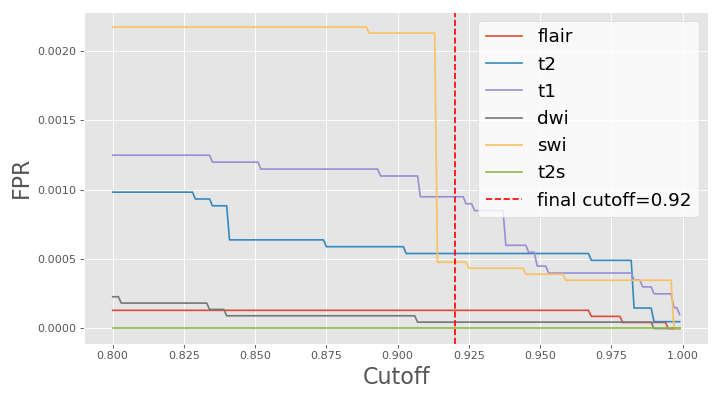
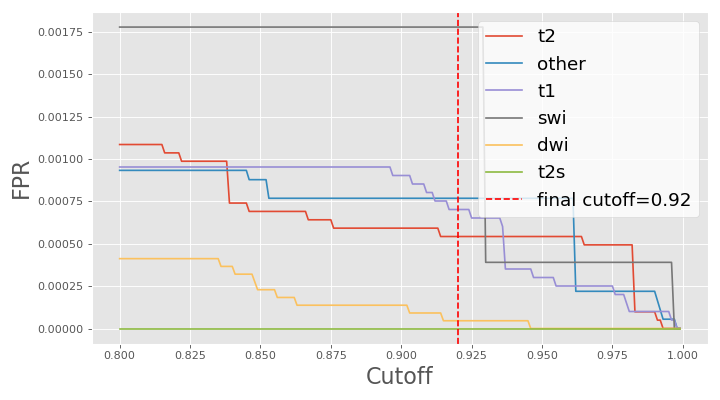
prediction stats

diff --git a/Cobra/cobra/predict_sequences.py b/Cobra/cobra/predict_sequences.py
@@ -14,10 +14,12 @@ from utilities import classification as clss
 from stats_tools import vis as svis
 import seaborn as sns
 import matplotlib.pyplot as plt
+import matplotlib as mpl
 import numpy as np
 from sklearn.model_selection import train_test_split
 from sklearn.metrics import confusion_matrix
-
+import seaborn as sns
+import scikitplot as skplot
 
 #%%
 # In[tables directories]
@@ -45,7 +47,7 @@ ICD_k = 'InstanceCreationDate'
 #%%
 # In[load all csv]
 rel_cols = [SID_k, SD_k, TE_k, TR_k, FA_k, TI_k,
-            ETL_k, SS_k, SV_k, PID_k, DT_k, ICD_k, ]
+            ETL_k, SS_k, SV_k, PID_k, DT_k, ICD_k,'Positive' ]
 table_all_dir = f"{table_dir}/neg_pos.csv"
 df_all = utils.load_scan_csv(table_all_dir)[rel_cols]
 print("Fraction of missing values for every column")
@@ -63,7 +65,9 @@ print(df_all[SS_k].astype(str).unique())
 print(df_all[SV_k].astype(str).unique())
 # In[Get masks for the different series descriptions]
 mask_dict, tag_dict = mri_stats.get_masks_dict(df_all)
-
+#%% 
+print(df_all.PatientID.nunique())
+#%%
 # In[Add sequence column and set it to one of the relevant values]
 sq = 'Sequence'
 rel_keys = ['t1', 't1gd', 't2', 't2gd', 't2s', 'swi', 'flair', 'none_nid',
@@ -76,18 +80,28 @@ df_all[sq] = np.where((mask_dict.t1gd), "t1", df_all[sq])
 df_all[sq] = np.where((mask_dict.t2gd), "t2", df_all[sq])
 df_all[sq] = np.where((mask_dict.gd), "none_nid", df_all[sq])
 print(df_all[sq])
+# %%
+print(df_all.Sequence.value_counts())
+print(df_all[df_all.Sequence=='dti'].PatientID.nunique())
 
+#print("There are not enough dti sequences")
+#%%
 # In[Count number of volumes for every sequence]
 seq_count = df_all[sq].value_counts()
 print(seq_count)
+#%%
+df_all.keys()
+#%%
+mpl.rcParams['figure.dpi'] = 400
+labels = ['Not \nidentified', 'other', 'T1', 'T2', 'DWI', 'FLAIR', 'SWI', 'T2*']
+g = sns.countplot(x="Sequence", hue="Positive", data=df_all, hue_order=[1,0],
+    order = df_all['Sequence'].value_counts().index)
+g.set(xlabel=('Sequence Type'), ylabel=('Volume Count'), xticklabels=labels)
+fig = g.get_figure()
+fig.tight_layout()
+fig.savefig(f"{fig_dir}/sequence_pred/volumes_sequence_count.png")
 
-# In[visualize number of volumes sequences]
-svis.bar(seq_count.keys(), seq_count.values, figsize=(13, 6),
-         kwargs={'xlabel':'Sequence', 'xtickparams_ls':16,
-              'title':'All Patients','ylabel':'Volume Count'}, 
-         save=True, figname=f"{fig_dir}/sequence_pred/volumes_sequence_count.png")
-
-
+#%%
 # In[Turn ScanningSequence into multi-hot encoded]
 s = df_all[SS_k].explode()
 columns_list = list(df_all.columns)
@@ -96,7 +110,7 @@ df_all = df_all[columns_list].join(pd.crosstab(s.index, s))
 print("Unique Scanning Sequences:")
 print(set(df_all.columns)-set(columns_list))
 del s
-
+#%%
 # In[Turn SequenceVariant into multi-hot encoded]
 s = df_all[SV_k].explode()
 columns_list = list(df_all.columns)
@@ -105,19 +119,22 @@ df_all = df_all[columns_list].join(pd.crosstab(s.index, s))
 print("Unique Sequence Variants:")
 print(set(df_all.columns)-set(columns_list))
 del s, columns_list
+#%%
 # In[Fraction of missing values in each column]
 print("Number of missing values")
 print(df_all.isna().sum(axis=0))
+#%%
 # In[Lets set missing inversion times, Flip Angles and Echo times to 0]
 df_all[TI_k] = np.where((df_all[TI_k].isna()), 0, df_all[TI_k])
 df_all[FA_k] = np.where((df_all[FA_k].isna()), 0, df_all[FA_k])
 df_all[TE_k] = np.where((df_all[TE_k].isna()), 0, df_all[TE_k])
+#%%
 # Lets set missing TR to the median TR
 df_all[TR_k] = np.where((df_all[TR_k].isna()), df_all[TR_k].median(), df_all[TR_k])
 df_all[ETL_k] = np.where((df_all[ETL_k].isna()), 0, df_all[ETL_k])
 print("Missing values:")
 print(df_all.isna().sum(axis=0))
-
+#%%
 # In[Now we can show the histograms, except non numeric values]
 columns_list = list(df_all.columns)
 sparse_columns = ['EP', 'GR', 'IR', 'RM', 'SE', 'DE', 'MP', 'MTC',
@@ -130,21 +147,24 @@ fig, ax = plt.subplots(figsize=(10, 10))
 ax = df_all.hist(column=columns_list, figsize=(10, 10), ax=ax, log=True)
 fig.tight_layout()
 fig.savefig(f"{fig_dir}/sequence_pred/X_distr.png")
+#%%
 # In[Show the binary columns]
 bin_counts = df_all[sparse_columns].sum(axis=0)
 svis.bar(bin_counts.keys(), bin_counts.values,
               figsize=(15, 6), kwargs={'logscale':True},
               figname=f"{fig_dir}/sequence_pred/X_distr_bin.png")
+#%%
 # In[We can drop the TOF, EP, DE and MTC columns]
 try:
     df_all = df_all.drop(['TOF', 'DE', 'MTC'], axis=1)
 except:
     print("those columns are not present")
+#%%
 # In[Before encoding we have to split up the sequences we want to predict (test set)]
 df_test = df_all[df_all.Sequence == 'none_nid']
 df_train = df_all[df_all.Sequence != 'none_nid']
 del df_all
-
+#%%
 # In[Integer encode labels]
 target_labels = df_train.Sequence.unique()
 target_ids = np.arange(len(target_labels))
@@ -153,7 +173,7 @@ y = df_train[sq].map(target_dict)
 print(y)
 print(target_dict)
 
-
+#%%
 # In[Now we separate the patient ID and the SeriesInstance UID]
 # From now on we should not change the order or remove any values,
 # otherwise the ids wont match afterwards
@@ -167,7 +187,7 @@ try:
         [PID_k, SID_k, 'Sequence', SD_k, DT_k, ICD_k], axis=1)
 except:
     print("those columns are not present")
-
+#%%
 # In[Min max scale non bin columns]
 num_cols = df_train.select_dtypes(include="float64").columns
 X = df_train.copy()
@@ -177,26 +197,30 @@ for col in num_cols:
         (df_train[col].max()-df_train[col].min())
     X_test[col] = (df_test[col] - df_test[col].min()) / \
         (df_test[col].max()-df_test[col].min())
-
+#%%
 # In[Split train and val]
 X_train, X_val, y_train, y_val = train_test_split(
     X, y, test_size=0.1, random_state=42)
 
-
+#%%
 # In[Initialize and train]
 xgb_cl = xgb.XGBClassifier()
 xgb_cl.fit(X_train, y_train)
+#%%
 # In[Plot feature importance]
 xgb.plot_importance(xgb_cl, importance_type = 'gain') # other options available
 plt.show()
+#%%
 # In[Predict]
 pred_prob_val = xgb_cl.predict_proba(X_val)
+#%%
 # In[Plot roc curve]
 svis.plot_decorator(skplot.metrics.plot_roc_curve, 
                     plot_func_args=[y_val, pred_prob_val, ],
                     plot_func_kwargs={'figsize': (9, 8), 'text_fontsize': 14.5,
                             'title': "Sequence Prediction - ROC Curves"},
                     figname=f"{fig_dir}/sequence_pred/ROC_curves.png")
+#%%
 # In[Test FPR for different thresholds]
 thresholds = np.linspace(.8, .999, 200)
 fprs = []
@@ -205,7 +229,7 @@ for i, th in enumerate(thresholds):
     cm = confusion_matrix(y_val, pred_val)
     fprs.append(clss.fpr_multi(cm))
 fprs = np.array(fprs)
-
+#%%
 # In[Plot FPR for different thresholds]
 final_th = 0.92
 fig, ax = plt.subplots(figsize=(9, 5))
@@ -218,6 +242,7 @@ ax.set_xlabel('Cutoff', fontsize=20)
 ax.set_ylabel('FPR', fontsize=20)
 fig.tight_layout()
 fig.savefig(f"{fig_dir}/sequence_pred/fpr_cutoff.png", dpi=80)
+#%%
 # In[Plot confusion matrix]
 # np.argmax(pred_val, axis=1)
 pred_val = clss.prob_to_class(pred_prob_val, final_th, 0)
@@ -234,6 +259,7 @@ svis.plot_decorator(skplot.metrics.plot_confusion_matrix,
                             'ytick_labels':target_dict.keys()},
                     save=True, 
                     figname=f"{fig_dir}/sequence_pred/confusion_matrix_val_norm.png")
+#%%
 # In[make prediction for the test set]
 pred_prob_test = xgb_cl.predict_proba(X_test)
 pred_test = clss.prob_to_class(pred_prob_test, final_th, 0)
@@ -241,7 +267,7 @@ svis.bar(target_dict.keys(), np.unique(pred_test, return_counts=True)[1],
          kwargs={'xlabel':'Sequence', 'title':'Predicted sequences',
                  },
          save=True, figname=f"{fig_dir}/sequence_pred/seq_dist_pred.png")
-
+#%%
 # In[show predicted and true]
 pred_counts = np.unique(pred_test, return_counts=True)[1]
 fig, ax = svis.bar(target_dict.keys(), seq_count.values[1:], label='true',
@@ -253,10 +279,12 @@ svis.bar(target_dict.keys(), pred_counts, fig=fig, ax=ax,
                       'title':'Volume Count - All Patients',
                       'ylabel':'Volumes Count'},
               figname=f"{fig_dir}/sequence_pred/seq_dist_pred.png")
+#%%
 # In[Get labels from prediction]
 def dict_mapping(t): return basic.inv_dict(target_dict)[t]
 
 pred_test_labels = np.array([dict_mapping(xi) for xi in pred_test])
+#%%
 # In[Create and save dataframe with predictions]
 df_test[sq] = pred_test_labels
 df_test = pd.concat([df_test, df_test_ids], axis=1)
@@ -264,7 +292,7 @@ df_train = pd.concat([df_train, df_train_ids], axis=1)
 df_test['TrueSequenceType'] = 0
 df_train['TrueSequenceType'] = 1
 df_final = pd.concat([df_train, df_test])
-
+#%%
 #del df_test, df_train
 # In[Examine final df]
 df_final[[PID_k, SID_k, sq, ICD_k, 'TrueSequenceType']].to_csv(
@@ -272,6 +300,16 @@ df_final[[PID_k, SID_k, sq, ICD_k, 'TrueSequenceType']].to_csv(
 print(len(df_final))
 print(df_final.isna().sum())
 
+#%%
+mpl.rcParams['figure.dpi'] = 400
+labels = ['other', 'T1', 'T2', 'FLAIR', 'DWI', 'SWI', 'T2*']
+g = sns.countplot(x="Sequence", hue="Positive", data=df_final, hue_order=[1,0],
+    order = df_final['Sequence'].value_counts().index)
+g.set(xlabel=('Sequence Type'), ylabel=('Volume Count'), )
+fig = g.get_figure()
+fig.tight_layout()
+fig.savefig(f"{fig_dir}/sequence_pred/volumes_sequence_count_predicted.png")
+#%%
 # In[visualize sequences scatter]
 fig, ax = plt.subplots(2, 2, figsize=(10, 10))
 ax = ax.flatten()

diff --git a/Cobra/cobra/dcm_nii_conversion.py b/Cobra/cobra/dcm_nii_conversion.py
@@ -6,7 +6,7 @@ Created on Thu Sep  9 10:52:01 2021
 
 Convert dicom files to niftiis
 """
-
+#%%
 import access_sif_data.load_data_tools as ld
 import os
 from dcm2nii import dcm2nii
@@ -17,7 +17,7 @@ import numpy as np
 import matplotlib.pyplot as plt
 from utilities import basic, utils
 
-
+#%%
 # In[main directories]
 base_data_dir = "Y:/"
 out_pos_path = "Y:\\nii\\positive"
@@ -26,10 +26,16 @@ positive_dir = f"{base_data_dir}/positive"
 healthy_dirs = sorted([f"{base_data_dir}/{x}" for x \
                        in data_dirs if x.startswith('2019')])
 print(f"main directories: {data_dirs}")
-
+#%% 
+# In[Convert t1 sequences]
+src_main_dir = "D:\Thesis\Cobra\cobra\\figs\Presentation\Study_design\dcm\\t1\series"
+dest_main_dir = "D:\Thesis\Cobra\cobra\\figs\Presentation\Study_design\\nii\\t1"
+for src_dir in basic.list_subdir(src_main_dir):
+    dcm2nii.convert_dcm2nii(src_dir, dest_main_dir)
+#%%
 # In[Get all positive patients]
 pos_patients_list = basic.list_subdir(positive_dir)
-
+#%%
 # In[Number of converted patients]
 conv_patients_list = os.listdir(out_pos_path)
 conv_patients = len(conv_patients_list)
@@ -121,3 +127,4 @@ for i, compression in enumerate(range(1,10)):
     stop = time.time()   
     access_times[i] = stop-start
     print(f"For compression={compression} the access took: {stop-start} s")
+
